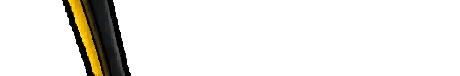
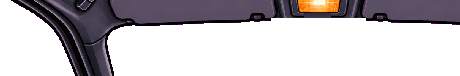
v0.80.1: Cadete GSi com cabine nova (arte do Victor) e o quadro digital LCD da foto do carro real
Claude-Session: https://claude.ai/code/session_01MLD9VR7gkmY4w6a9beZcp6

diff --git a/src/cockpit.ts b/src/cockpit.ts
@@ -1109,61 +1109,56 @@ COCKPIT_ART['br-pumagtb'] = {
 };
 queueMicrotask(() => faceImg(PB_FACE));
 
-// Cadete GSi: quadro digital "LCD Electronics" como o de verdade — à esquerda quatro barras em
-// cunha (pressão do óleo, bateria, temperatura da água, combustível) com os ícones vermelhos;
-// no meio a velocidade em três dígitos grandes, hodômetro e parcial; à direita o conta-giros
-// em arco segmentado (×100 rpm, 5 a 70). No console, a régua de luzes de aviso e o relógio.
-const KAD = { on: '#ffb428', off: '#2a1c08', red: '#ff3a20', redOff: '#3a1008', icon: '#e8402a', dim: '#ffcf70' };
+// Cadete GSi: quadro digital "LCD Electronics" como o da foto do carro de verdade (o miolo do LCD da arte
+// nova fica preto liso, tools/ref/kadett_cockpit.py) — à esquerda quatro barras em cunha (pressão do óleo,
+// bateria, temperatura da água, combustível) com os ícones vermelhos; no meio a velocidade em três dígitos
+// grandes, hodômetro e parcial; à direita o conta-giros em arco segmentado (×100 rpm, 5 a 70) com os números
+// por dentro. Amarelo-claro sobre preto, como na foto (o LCD é aceso de dia e de noite).
+const KAD = { on: '#f2da7c', off: '#262010', red: '#ff4a26', redOff: '#341008', icon: '#e8402a', dim: '#d8c070' };
+const KADB = { x0: 65.3, y0: 72.5, x1: 163, y1: 112.5 }; // miolo do LCD (coordenadas da arte)
 function kadettCluster(c: CanvasRenderingContext2D, ox: number, r: Race) {
   const T = ART_TOP;
   const kmh = r.speed * KMH;
   const rpm = clamp(r.rpm, 0, 1);
+  const B = KADB;
   // barras em cunha: cada segmento um pouco mais alto que o anterior
   const bars: [number, boolean][] = [[gauges.oil, false], [gauges.volt, false], [gauges.water, gauges.water > 0.8], [gauges.fuel, gauges.fuel < 0.68]];
   bars.forEach(([v, warn], i) => {
-    const y = T + 44 + i * 8.5 + (i >= 2 ? 2.5 : 0); // espaço para a escala da bateria
-    rect(c, ox + 71, y + 1.5, 2.5, 2.5, warn ? '#ff6040' : KAD.icon);
+    const y = T + B.y0 + 2.5 + i * 7.6;
+    rect(c, ox + B.x0 + 2, y + 1.5, 2.5, 2.5, warn ? '#ff6040' : KAD.icon);
     const n = 16;
     for (let k = 0; k < n; k++) {
-      const h = 1.5 + (k / (n - 1)) * 3.5;
-      rect(c, ox + 76 + k * 1.5, y + 5 - h, 1, h, k < Math.round(clamp(v, 0, 1) * n) ? (warn && k < 4 ? KAD.red : KAD.on) : KAD.off);
+      const h = 1.2 + (k / (n - 1)) * 3.3;
+      rect(c, ox + B.x0 + 6.5 + k * 1.6, y + 4.5 - h, 1, h, k < Math.round(clamp(v, 0, 1) * n) ? (warn && k < 4 ? KAD.red : KAD.on) : KAD.off);
     }
   });
-  pix(c, '9', ox + 82, T + 60, KAD.dim, 0.5); // escala da bateria (9 12 15)
-  pix(c, '12', ox + 89, T + 60, KAD.dim, 0.5);
-  pix(c, '15', ox + 97, T + 60, KAD.dim, 0.5);
-  // velocidade: três dígitos de 7 segmentos
-  rect(c, ox + 104, T + 43, 47, 37, '#0d0b08');
-  seg7Number(c, ox + 143, T + 47, kmh, 3, KAD.on, KAD.off);
-  pix(c, 'km/h', ox + 147, T + 57, KAD.dim, 0.5);
-  pix(c, 'LCD', ox + 127, T + 64, '#8a6a2a', 0.5);
-  // hodômetro e parcial em dígitos pequenos (o último da parcial gira de verdade)
+  // velocidade: três dígitos de 7 segmentos, "km/h" ao lado
+  const sv = String(Math.min(999, Math.round(kmh)));
+  for (let i = 0; i < 3; i++) {
+    const ch = sv[sv.length - 3 + i];
+    seg7Box(c, ox + B.x0 + 37 + i * 7.2, T + B.y0 + 3.5, 5.6, 11, ch === undefined ? null : Number(ch), KAD.on, KAD.off);
+  }
+  pix(c, 'km/h', ox + B.x0 + 63, T + B.y0 + 12.5, KAD.dim, 0.4);
+  pix(c, 'LCD', ox + B.x0 + 50, T + B.y0 + 19.5, '#7a6a30', 0.4);
+  // hodômetro e parcial
   const km = Math.max(0, ((r.playerZ - r.track.startZ) * KMH) / 3600);
-  pix(c, String(Math.floor(805 + km)).padStart(6, '0'), ox + 116, T + 72, KAD.on, 0.5);
-  pix(c, ((14.5 + km) % 1000).toFixed(1), ox + 140, T + 72, KAD.on, 0.5);
-  // conta-giros em arco (centro embaixo à direita, do 5 à esquerda ao 70 em cima)
-  const arc = { x: 191, y: 80, r0: 22, r1: 28, a0: Math.PI, a1: Math.PI * 1.5, n: 24 };
+  pix(c, String(Math.floor(805 + km)).padStart(6, '0'), ox + B.x0 + 45, T + B.y0 + 26, KAD.on, 0.4);
+  pix(c, ((14.5 + km) % 1000).toFixed(1), ox + B.x0 + 62, T + B.y0 + 26, KAD.on, 0.4);
+  // conta-giros em arco (centro embaixo à direita, do 5 à esquerda ao 70 em cima), números por dentro
+  const arc = { x: B.x1 - 3.5, y: B.y1 - 6.5, r0: 17, r1: 22.5, a0: Math.PI, a1: Math.PI * 1.5, n: 22 };
   drawArc(c, ox, arc, 0.04 + rpm * 0.86, (f) => (f < 0.86 ? [KAD.on, KAD.off] : [KAD.red, KAD.redOff]));
   for (const v of [5, 10, 20, 30, 40, 50, 60, 70]) {
     const a = arc.a0 + ((arc.a1 - arc.a0) * v) / 70;
-    pix(c, String(v), ox + arc.x + 0.5 + Math.cos(a) * 32, T + arc.y + Math.sin(a) * 31.5 * PIX_Y, KAD.dim, 0.5);
+    pix(c, String(v), ox + arc.x + 1 + Math.cos(a) * 12.5, T + arc.y + Math.sin(a) * 12 * PIX_Y, KAD.dim, 0.35);
   }
-  pix(c, 'x100', ox + 185, T + 76, KAD.dim, 0.5);
-  // régua de luzes do console (tela larga): ícones âmbar apagados; acendem quando faz sentido
-  const warn = [r.damage > 0.6, gauges.fuel < 0.68, false, r.speed < 1 && !r.throttle, r.state === 'ticket', gauges.water > 0.8, false];
-  warn.forEach((on, i) => {
-    const x = ox + 261.5 + i * 6.8;
-    rect(c, x, T + 44, 5, 5, on ? (i === 4 || i === 0 ? '#ff3a20' : '#ffb428') : '#4a3410');
-    rect(c, x + 1, T + 45, 1, 1, on ? '#fff0c0' : '#5e4618');
-  });
-  // relógio digital do console
-  const now = new Date();
-  pix(c, `${String(now.getHours()).padStart(2, '0')}:${String(now.getMinutes()).padStart(2, '0')}`, ox + 285.5, T + 87, '#c8e0a0', 1);
+  pix(c, 'x100', ox + arc.x - 4, T + arc.y - 1, KAD.dim, 0.35);
 }
 COCKPIT_ART['br-kadett'] = {
-  tells: [113, 65.5],
+  tells: [114, 103], // setas do quadro: embaixo, no meio do LCD
   dash: cp('br-kadett-dash'), top: cp('br-kadett-top'), wheel: cp('br-kadett-wheel'),
-  pivot: [127.9, 105.7], speedMax: 220, needle: '#ffb428', hub: '#202022', radar: [206, 4], aux: [],
+  glass: { at: [57, 141], thr: 256 }, // retrovisor esquerdo (vidro transparente)
+  pivot: [128, 104], wheelTop: -21.49, wheelDx: -21.09, wheelDy: 25.11,
+  speedMax: 220, needle: '#ffb428', hub: '#202022', radar: [190, 40], aux: [],
   extra: (c, ox, r) => kadettCluster(c, ox, r),
 };
 

diff --git a/tools/ref/kadett_cockpit.py b/tools/ref/kadett_cockpit.py
@@ -1,32 +1,186 @@
-"""Acabamento da cabine do Cadete GSi (depois de import_cockpit.py br-kadett): o vidro do
-retrovisor esquerdo vem em xadrez azul e branco (reflexo desenhado); vira vidro liso para o jogo
-desenhar o reflexo de verdade.
-
-Uso: python3 tools/ref/kadett_cockpit.py src/assets/cockpit
+"""Cabine do Cadete GSi (Chevrolet Kadett GSi) a partir das duas artes novas do Victor (com e sem volante,
+vidros em magenta), no molde do Corsário (corsa_cockpit2.py):
+- painel, colunas, forro e portas da arte SEM volante; volante de três raios da arte COM volante (aro pelas
+  elipses medidas, raios e almofada por polígono; as artes não estão alinhadas ao pixel, então nada de diferença)
+- vidros: o magenta (e a franja rosada) vira vidro; o vidro azul do retrovisor esquerdo também (o jogo põe a
+  vista de trás); o direito fica como está
+- retrovisor interno e a haste saem (o jogo desenha o dele): espelho vira para-brisa, a haste vira forro
+- limpadores da arte saem: na faixa deles, o que é fino (sumiu numa abertura vertical) vira vidro
+- quadro: o miolo do LCD fica preto liso (a moldura fica); o jogo desenha o quadro digital do Kadett de
+  verdade por cima (kadettCluster em cockpit.ts, foto do Victor)
+- buzina: a gravata vira botão liso com o emblema da Vanguarda
+O volante fica à esquerda do centro (wheelDx), como no carro; o painel é centrado em x 605.
+Uso: python3 tools/ref/kadett_cockpit.py <pasta com cockwheel.png e cockdash.png> <src/assets/cockpit>  (DBG=<pasta>)
 """
 import os
 import sys
 
+import cv2
 import numpy as np
 from PIL import Image
 
+sys.path.insert(0, os.path.dirname(__file__))
+import brand_badges  # noqa: E402
+
+ID = 'br-kadett'
+S = 0.38
+PXW, PXH = 1 / S, (1 / S) / (8 / 7)
+PIV_X = 605.0
+WHEEL_C = (549.5, 533.0)
+Y0D = 245.0
+PIV_N = (128.0, 104.0)
+ROWS, EXT, PAD = 124, 76, 102
+WROWS = 230
+RIM_OUT = (549.5, 533.0, 186.0, 186.0)
+RIM_IN = (549.5, 533.0, 165.0, 164.0)
+PADPOLY = [(380, 504), (447, 521), (495, 499), (552, 494), (610, 499), (655, 521), (720, 505), (728, 570),
+           (655, 580), (583, 615), (590, 694), (510, 694), (517, 615), (457, 580), (382, 578)]
+EMB = (551.5, 542.5, 27.0)
+MIRROR_SEED = (150, 395)
+IMIR = (712, 112, 962, 235)          # retrovisor interno (vira vidro)
+STALK = (800, 101, 872, 114)         # haste no forro
+WIPER_BAND = (380, 286, 1320, 358)   # faixa dos limpadores
+LCD = (440, 412, 697, 504)           # miolo do LCD (vira preto liso)
+LCD_COL = (14, 10, 8)
+
+
+def magenta(nw):
+    """o magenta das janelas: só os blocos grandes (o tecido roxo/rosa dos bancos e portas não) e a franja"""
+    a = nw.astype(int)
+    r, g, b = a[..., 0], a[..., 1], a[..., 2]
+    m = (r - g > 90) & (b - g > 90) & (r > 170) & (b > 170)
+    n, lab, st, _ = cv2.connectedComponentsWithStats(m.astype(np.uint8), connectivity=4)
+    m = np.isin(lab, [i for i in range(1, n) if st[i, cv2.CC_STAT_AREA] > 5000])
+    fringe = (r - g > 50) & (b - g > 50) & (r > 120) & (b > 120)
+    near = cv2.dilate(m.astype(np.uint8), np.ones((5, 5), np.uint8)) > 0
+    return m | (near & fringe)
+
+
+def glass_mask(nw):
+    H, W = nw.shape[:2]
+    g = magenta(nw)
+    # retrovisor interno e haste: vidro (a haste no forro vira forro em clean)
+    x0, y0, x1, y1 = IMIR
+    g[y0:y1, x0:x1] = True
+    # limpadores: fino na faixa vira vidro
+    x0, y0, x1, y1 = WIPER_BAND
+    band = np.zeros((H, W), bool)
+    band[y0:y1, x0:x1] = True
+    solid = (~g).astype(np.uint8)
+    thick = cv2.morphologyEx(solid, cv2.MORPH_OPEN, np.ones((70, 1), np.uint8)) > 0
+    g |= band & ~thick
+    # vidro azul do retrovisor esquerdo
+    a = nw.astype(int)
+    blue = (a[..., 2] > a[..., 0] + 40) & (a[..., 2] > 120)
+    n, lab = cv2.connectedComponents(blue.astype(np.uint8), connectivity=4)
+    mir = lab == lab[MIRROR_SEED[1], MIRROR_SEED[0]]
+    ys, xs = np.nonzero(mir)
+    hull = cv2.convexHull(np.stack([xs, ys], 1).astype(np.int32))
+    mir = cv2.fillPoly(np.zeros((H, W), np.uint8), [hull], 1) > 0
+    g |= mir
+    g = cv2.morphologyEx(g.astype(np.uint8), cv2.MORPH_CLOSE, np.ones((3, 3), np.uint8)) > 0
+    return g, mir
+
+
+def clean(nw):
+    out = nw.copy()
+    x0, y0, x1, y1 = STALK
+    for y in range(y0, y1):  # cada linha com o forro dela (entre a luz de teto e o quebra-sol da direita)
+        out[y, x0:x1] = np.median(nw[y, 910:945], axis=0).astype(np.uint8)
+    x0, y0, x1, y1 = LCD
+    out[y0:y1, x0:x1] = LCD_COL
+    return out
+
+
+def grid(y0, rows, cols=256 + 2 * PAD):
+    xs = PIV_X + (np.arange(cols) - PAD + 0.5 - PIV_N[0]) * PXW
+    ys = y0 + (np.arange(rows) + 0.5) * PXH
+    return xs, ys
+
+
+def sample(img, xs, ys):
+    xi = np.clip(np.floor(xs).astype(int), 0, img.shape[1] - 1)
+    yi = np.clip(ys.astype(int), 0, img.shape[0] - 1)
+    return img[yi][:, xi]
+
+
+def wheel_mask(ww):
+    H, W = ww.shape[:2]
+    y4, x4 = np.mgrid[0:H, 0:W]
+    ell = lambda e: ((x4 - e[0]) / e[2]) ** 2 + ((y4 - e[1]) / e[3]) ** 2 <= 1  # noqa: E731
+    sp = cv2.fillPoly(np.zeros((H, W), np.uint8), [np.array(PADPOLY, np.int32)], 1) > 0
+    sp = cv2.dilate(sp.astype(np.uint8), np.ones((25, 25), np.uint8)) > 0   # polígono folgado...
+    lum = ww.astype(int).mean(axis=2)
+    gray = sp & (lum > 62)                                                  # ...e só o cinza claro dos raios
+    gray = cv2.morphologyEx(gray.astype(np.uint8), cv2.MORPH_CLOSE, np.ones((7, 7), np.uint8))
+    gray = cv2.morphologyEx(gray, cv2.MORPH_OPEN, np.ones((5, 5), np.uint8))
+    n, lab, st, _ = cv2.connectedComponentsWithStats(gray, connectivity=4)
+    gray = lab == (1 + int(np.argmax(st[1:, cv2.CC_STAT_AREA])))
+    # contorno escuro dos raios encostado no cinza
+    gray |= (cv2.dilate(gray.astype(np.uint8), np.ones((5, 5), np.uint8)) > 0) & sp
+    n, lab = cv2.connectedComponents((~gray).astype(np.uint8), connectivity=4)  # furos (emblema) entram
+    ell_in = ell(RIM_IN)
+    holes = (lab != lab[int(WHEEL_C[1]) - 150, int(WHEEL_C[0])]) & ell_in
+    return ell(RIM_OUT) & (~ell_in | gray | holes)
+
 
 def main():
-    d = sys.argv[1]
-    tp, dp = os.path.join(d, 'br-kadett-top.png'), os.path.join(d, 'br-kadett-dash.png')
-    t, dd = np.array(Image.open(tp).convert('RGBA')), np.array(Image.open(dp).convert('RGBA'))
-    a = np.vstack([t, dd])
-    rgb = a[..., :3].astype(int)
-    zone = np.zeros(a.shape[:2], bool)
-    zone[50:140, :80] = True
-    glass = zone & (a[..., 3] > 0) & (rgb.min(axis=2) > 120) & (rgb[..., 2] >= rgb[..., 0])
-    ys = np.nonzero(glass)[0]
-    for y in range(ys.min(), ys.max() + 1):
-        f = (y - ys.min()) / max(1, ys.max() - ys.min())
-        a[y, glass[y], :3] = (int(212 - 30 * f), int(222 - 28 * f), int(232 - 24 * f))
-    Image.fromarray(a[:t.shape[0]], 'RGBA').save(tp)
-    Image.fromarray(a[t.shape[0]:], 'RGBA').save(dp)
-    print('retrovisor: vidro liso,', int(glass.sum()), 'px')
+    d, out = sys.argv[1], sys.argv[2]
+    dbg = os.environ.get('DBG')
+    nw = np.array(Image.open(os.path.join(d, 'cockdash.png')).convert('RGB').resize((1672, 941), Image.NEAREST))
+    ww = np.array(Image.open(os.path.join(d, 'cockwheel.png')).convert('RGB'))
+    g, mir = glass_mask(nw)
+    nw = clean(nw)
+    A = ~g
+    if dbg:
+        v = nw.copy(); v[g] = (0, 255, 0); v[mir] = (255, 0, 255)
+        Image.fromarray(v).save(os.path.join(dbg, 'cab-alpha.png'))
+    xs, ys = grid(Y0D, ROWS)
+    d_rgb, d_al = sample(nw, xs, ys), sample(A, xs, ys)
+    xs, yt = grid(Y0D - EXT * PXH, EXT)
+    t_rgb, t_al = sample(nw, xs, yt), sample(A, xs, yt)
+    st_al = np.concatenate([t_al, d_al], axis=0)
+    st_rgb = np.concatenate([t_rgb, d_rgb], axis=0)
+    # ilhas opacas soltas no vidro (até 40 px) somem; furinhos fecham
+    n, lab, stt, _ = cv2.connectedComponentsWithStats(st_al.astype(np.uint8), connectivity=8)
+    for i in range(1, n):
+        if stt[i, cv2.CC_STAT_AREA] <= 40:
+            st_al[lab == i] = False
+    st_mir = np.concatenate([sample(mir, *grid(Y0D - EXT * PXH, EXT)), sample(mir, *grid(Y0D, ROWS))], axis=0)
+    n, lab, stt, _ = cv2.connectedComponentsWithStats((~st_al).astype(np.uint8), connectivity=4)
+    for i in range(1, n):
+        if stt[i, cv2.CC_STAT_AREA] <= 12 and not st_mir[lab == i].any():
+            st_al[lab == i] = True
+    t_al, d_al = st_al[:EXT], st_al[EXT:]
+    t_rgb, d_rgb = st_rgb[:EXT], st_rgb[EXT:]
+    for name, rgb, a_ in (('dash', d_rgb, d_al), ('top', t_rgb, t_al)):
+        Image.fromarray(np.dstack([rgb, a_.astype(np.uint8) * 255]), 'RGBA').save(os.path.join(out, f'{ID}-{name}.png'), optimize=True)
+    # volante
+    wheel = wheel_mask(ww)
+    if dbg:
+        v = ww.copy(); v[~wheel] = (v[~wheel] * 0.35 + np.array([0, 160, 0]) * 0.65).astype(np.uint8)
+        Image.fromarray(v[320:740, 340:760]).resize((840, 840), Image.NEAREST).save(os.path.join(dbg, 'wheel-mask.png'))
+    top = WHEEL_C[1] - RIM_OUT[3] - 4
+    xs = WHEEL_C[0] + (np.arange(256) + 0.5 - 128) * PXW
+    ys = top + (np.arange(WROWS) + 0.5) * PXH
+    w_rgb, w_al = sample(ww, xs, ys), sample(wheel, xs, ys) & (ys < ww.shape[0])[:, None]
+    wimg = np.dstack([w_rgb, w_al.astype(np.uint8) * 255])
+    piv_y = (WHEEL_C[1] - top) / PXH
+    hub = (128 + (EMB[0] - WHEEL_C[0]) * S, piv_y + (EMB[1] - WHEEL_C[1]) / PXH)
+    yy, xx = np.mgrid[0:WROWS, 0:256]
+    e = np.hypot(xx + 0.5 - hub[0], (yy + 0.5 - hub[1]) * (8 / 7))
+    core_r = EMB[2] * S
+    padc = np.median(wimg[(e > core_r + 2) & (e < core_r + 5) & (wimg[..., 3] > 0)][:, :3], axis=0).astype(np.uint8)
+    wimg[e <= core_r, :3] = padc
+    wimg[(e <= core_r) & (e > core_r - 1.1), :3] = (padc * 0.7).astype(np.uint8)
+    brand_badges.stamp(wimg, None, 'vanguarda', (round(hub[0]), round(hub[1]), 8, 0))
+    Image.fromarray(wimg, 'RGBA').save(os.path.join(out, f'{ID}-wheel.png'), optimize=True)
+    nat = lambda p: (round(PIV_N[0] + (p[0] - PIV_X) * S, 2), round((p[1] - Y0D) / PXH * 128 / 124, 2))  # noqa: E731
+    print('pivô do volante na arte do volante (linha)', round(piv_y, 2), 'wheelDx', round((WHEEL_C[0] - PIV_X) * S, 2))
+    print('centro do aro no painel (linha esticada)', nat(WHEEL_C))
+    print('LCD', nat(LCD[:2]), nat(LCD[2:]))
+    gl = (PIV_N[0] + (MIRROR_SEED[0] - PIV_X) * S, (MIRROR_SEED[1] - Y0D) / PXH)
+    print('vidro do retrovisor (empilhado, com PAD)', (round(PAD + gl[0]), round(EXT + gl[1])))
 
 
 if __name__ == '__main__':

diff --git a/CLAUDE.md b/CLAUDE.md
@@ -26,7 +26,8 @@
   frente e traseira vermelhas convertidas pelo brilho), capas (corsa_photos.py), cabine (corsa_cockpit2.py) e quadro das
   fotos reais (corsa_gauges.py, aceso em âmbar). Patrulha 9C (Caprice 9C1): exterior novo (tools/ref/patrol_sprites2.py, giroflex da lateral só com a ponta vermelha) e cabine
   com velocímetro digital turquesa (patrol_cockpit2.py, patrolCluster). Cadete GSi (Kadett GSi 2.0): exterior novo branco (tools/ref/kadett_sprites.py: "CHEVROLET" da tampa sai)
-  e capas (kadett_photos.py: kd-revista, kd-praia, kd-duelo). Os demais (ZR1, Vectra, Uno) ficam como estão
+  e capas (kadett_photos.py: kd-revista, kd-praia, kd-duelo); cabine nova (kadett_cockpit.py: painel da arte sem volante,
+  volante da com volante, vidros pelo magenta) com o quadro digital da foto do carro real (kadettCluster). Os demais (ZR1, Vectra, Uno) ficam como estão
   até a arte nova chegar, para não haver retrabalho: nada de retoques, retrovisores ou quadros neles.
   Na dúvida, perguntar.
 
